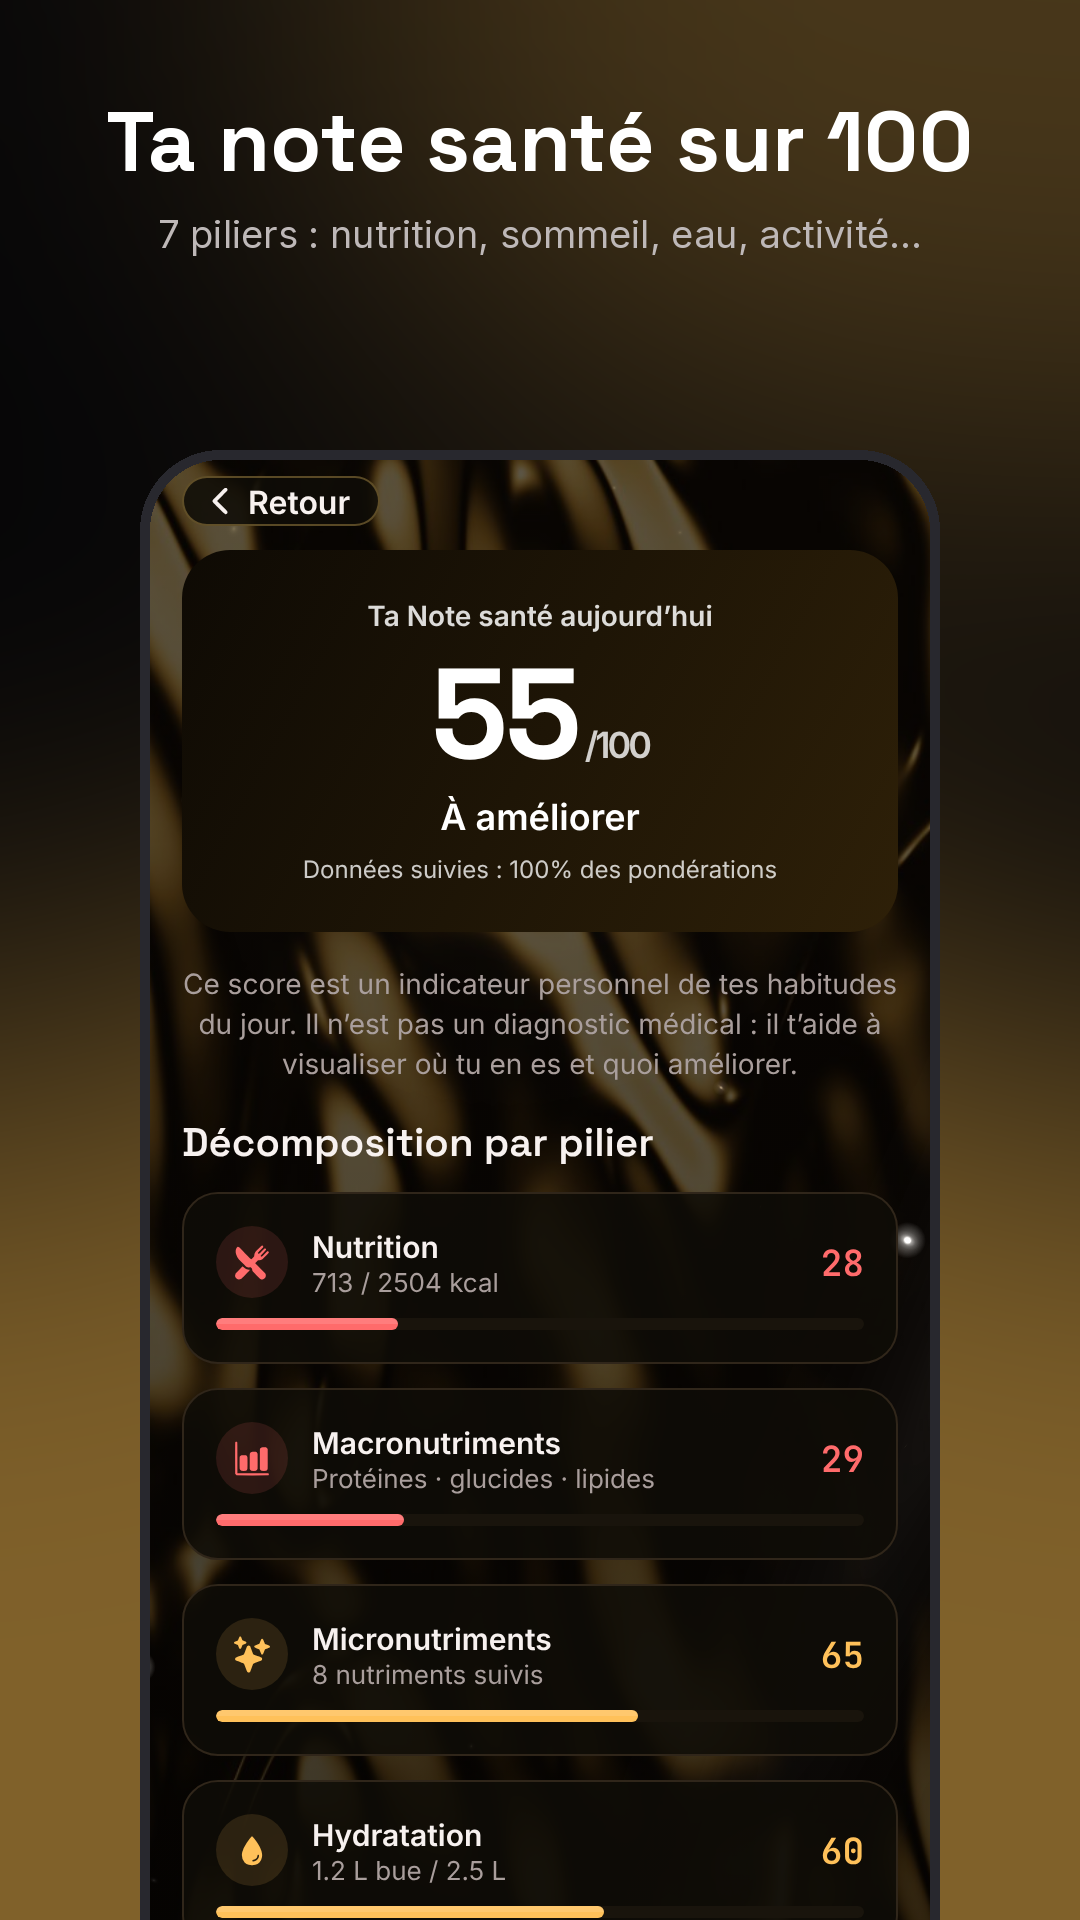
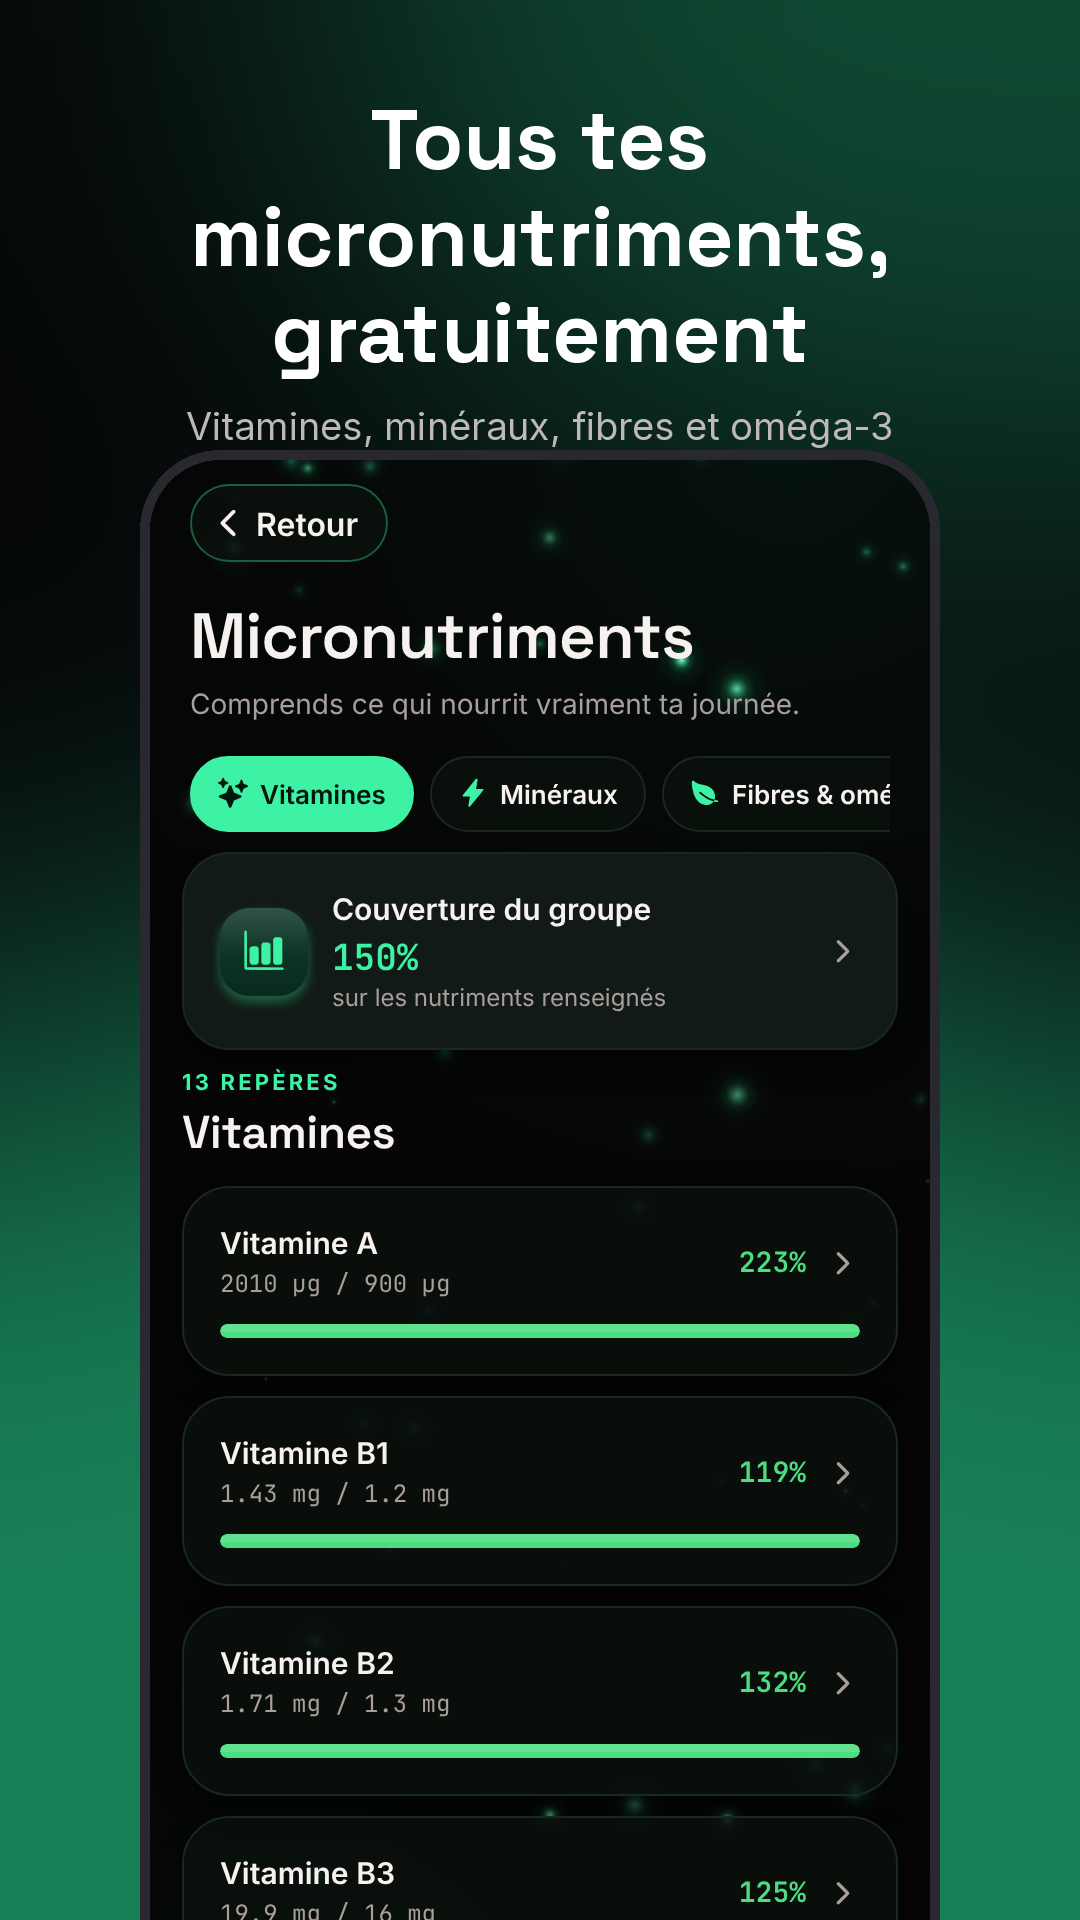
Panneaux Store : micronutriments ajoutés, eau et sommeil regroupés
Claude-Session: https://claude.ai/code/session_0136shcXuyP1ZjcndqdaV3Ty

diff --git a/primal-app/store/fiche-play.md b/primal-app/store/fiche-play.md
@@ -13,7 +13,7 @@ NUTRITION
 • Plus de 3 000 aliments issus de la table officielle Ciqual (ANSES)
 • Scan de code-barres (Open Food Facts)
 • Calories, protéines, glucides, lipides, fibres
-• Vitamines et minéraux suivis chaque jour
+• Vitamines, minéraux, fibres et oméga-3 suivis gratuitement, sans abonnement
 • Un coach qui te propose les aliments qui complètent ta journée
 
 TON OBJECTIF CALORIQUE S'ADAPTE
